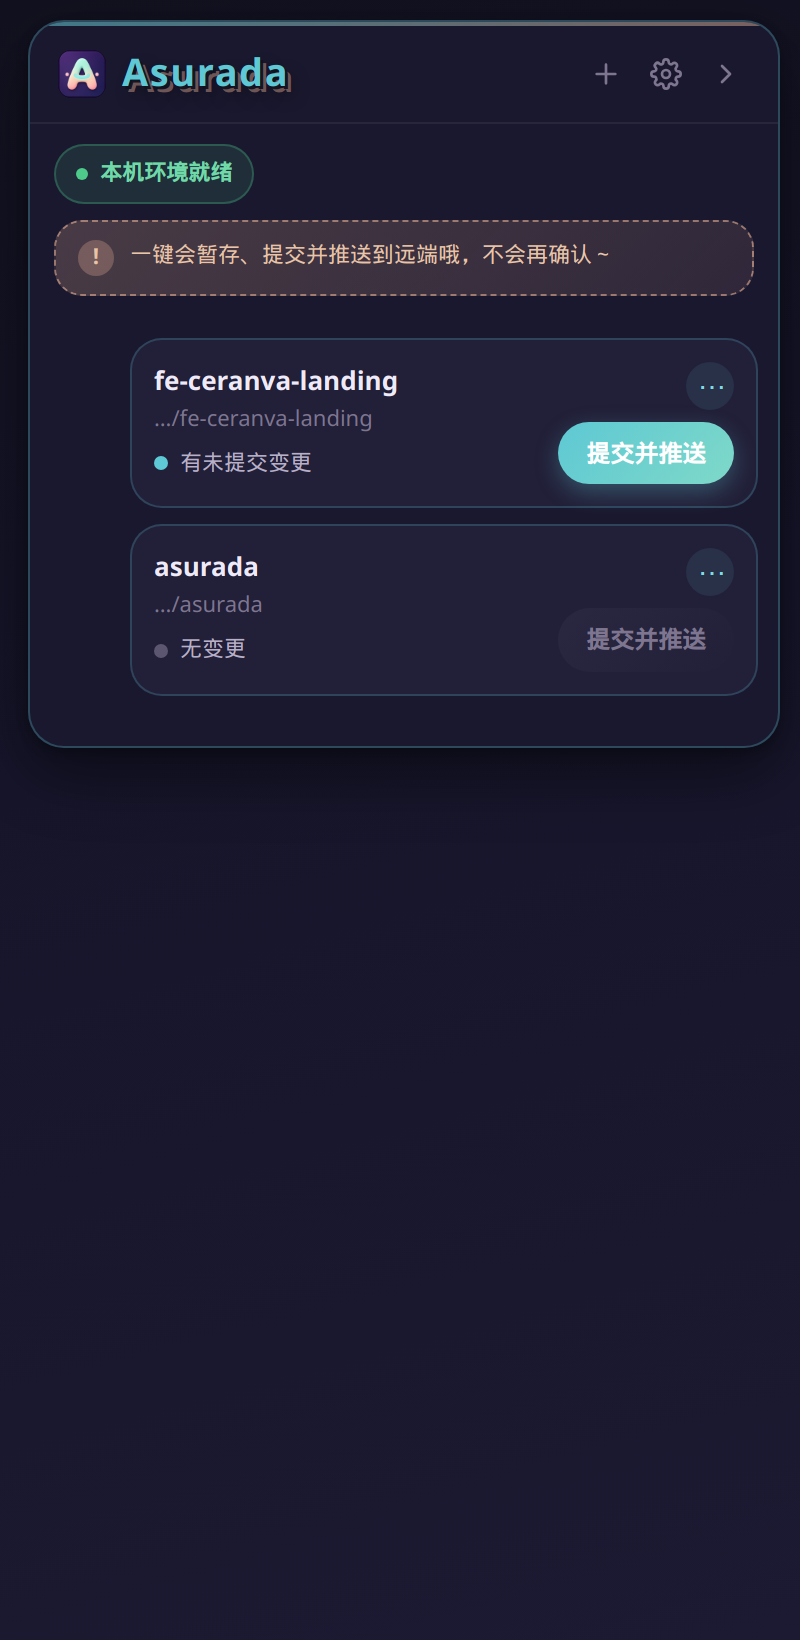
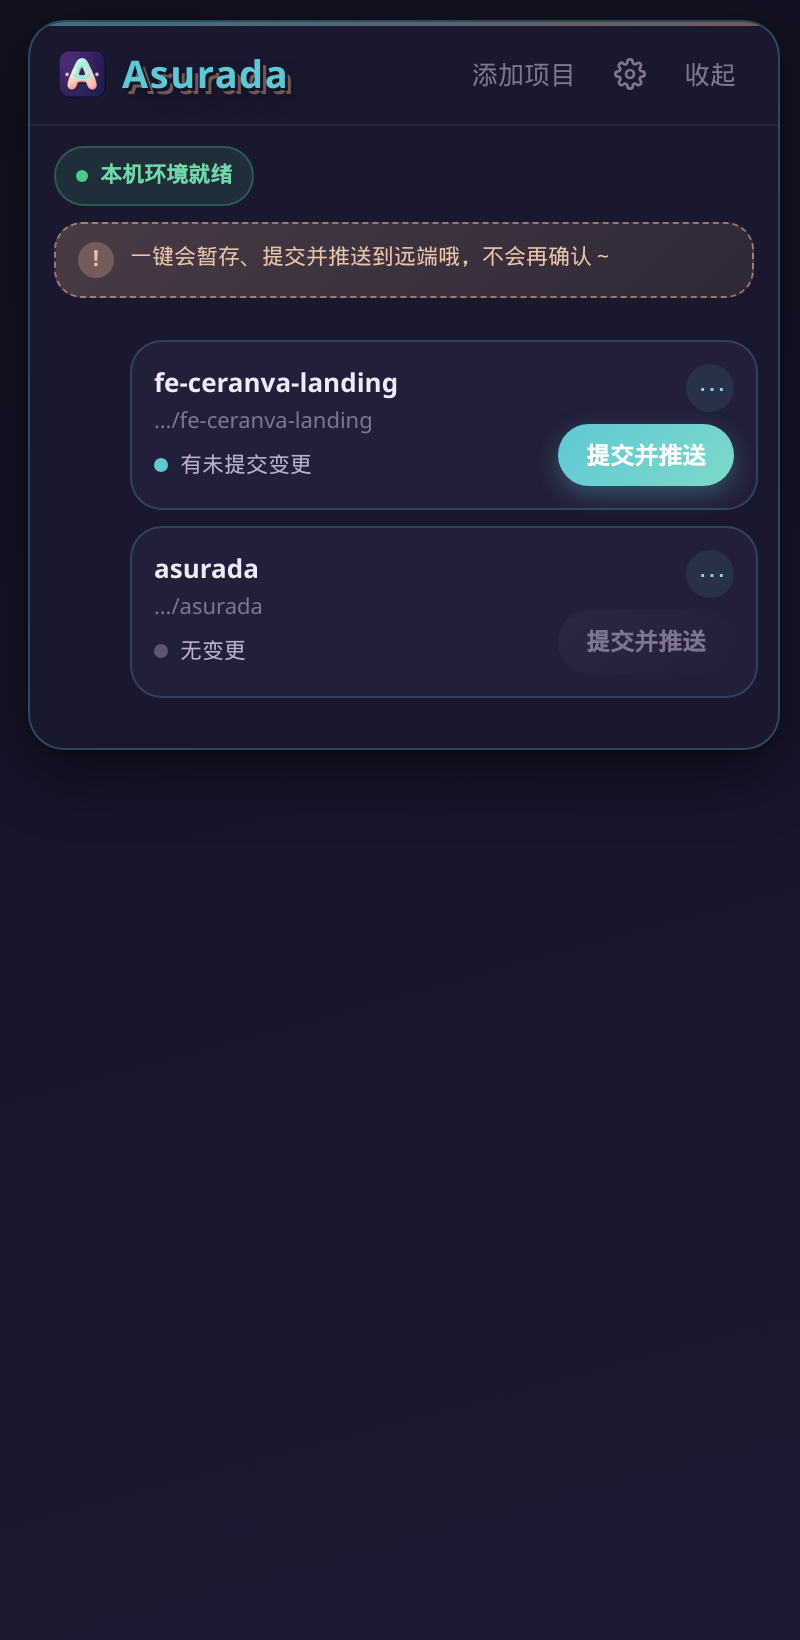
fix(设置): 紧凑主题行与顶栏文案，浅色面板接回定版
设置改左标签右分段；顶栏添加项目/收起用文案；浅色薄荷奶油半透明面板与顶条蜜桃→薄荷渐变。

diff --git a/src/App.css b/src/App.css
@@ -7,9 +7,9 @@
   --app-bg-a: transparent;
   --app-bg-b: transparent;
   --panel: rgba(255, 255, 255, 0.9);
-  --panel-solid: #fff;
+  --panel-solid: rgba(240, 252, 250, 0.88);
   --panel-border: rgba(94, 200, 212, 0.38);
-  --panel-outline: rgba(61, 58, 74, 0.08);
+  --panel-outline: rgba(94, 200, 212, 0.38);
   --panel-shadow: 0 12px 32px rgba(23, 18, 42, 0.18),
     0 2px 6px rgba(23, 18, 42, 0.08);
   --chrome-divider: rgba(61, 58, 74, 0.06);
@@ -237,11 +237,26 @@ body {
   background: var(--panel-solid);
   border: 1px solid var(--panel-outline);
   box-shadow: var(--panel-shadow);
+  backdrop-filter: blur(14px);
+  -webkit-backdrop-filter: blur(14px);
   display: flex;
   flex-direction: column;
   overflow: hidden;
   transform-origin: right center;
   animation: panel-in 0.42s cubic-bezier(0.34, 1.4, 0.64, 1);
+}
+
+:root .panel::before,
+[data-theme="light"] .panel::before {
+  content: "";
+  position: absolute;
+  inset: 0 0 auto;
+  height: 3px;
+  border-radius: 18px 18px 0 0;
+  background: linear-gradient(90deg, var(--peach), var(--mint));
+  opacity: 0.92;
+  pointer-events: none;
+  z-index: 1;
 }
 
 [data-theme="dark"] .panel::before {
@@ -358,7 +373,21 @@ body {
 .chrome-actions {
   display: flex;
   align-items: center;
-  gap: 2px;
+  gap: 4px;
+  flex-shrink: 0;
+}
+
+.btn-chrome {
+  color: var(--mint-hover-ink);
+  font-weight: 600;
+  font-size: 12px;
+  white-space: nowrap;
+}
+
+.btn-chrome-muted {
+  color: var(--ink-2);
+  font-weight: 600;
+  font-size: 12px;
 }
 
 .btn-ghost,
@@ -949,40 +978,42 @@ body {
 }
 
 .settings-page {
-  padding: 4px 4px 8px;
+  padding: 2px 2px 8px;
 }
 
-.settings-page-title {
-  margin: 0 0 12px;
-  font-size: 14px;
-  font-weight: 700;
-  color: var(--heading);
+.settings-row {
+  display: flex;
+  align-items: center;
+  justify-content: space-between;
+  gap: 10px;
+  padding: 8px 2px 12px;
 }
 
-.settings-card {
-  padding: 12px 12px 10px;
-  border-radius: 16px;
-  background: var(--surface-card);
-  border: 1.5px solid var(--border-soft);
-  margin-bottom: 14px;
-}
-
-.settings-card-head {
-  margin-bottom: 10px;
-}
-
-.settings-label {
-  display: block;
+.settings-row .settings-label {
+  flex: none;
   font-size: 12px;
   font-weight: 700;
   color: var(--heading);
+  cursor: default;
 }
 
-.settings-hint {
-  margin: 4px 0 0;
-  font-size: 11px;
-  line-height: 1.4;
-  color: var(--ink-3);
+.settings-row .theme-segment {
+  flex: 1;
+  max-width: 220px;
+}
+
+.settings-foot {
+  display: flex;
+  align-items: center;
+  gap: 12px;
+  padding: 0 2px;
+}
+
+.settings-foot .btn-text {
+  color: var(--mint-hover-ink);
+  font-weight: 600;
+  font-size: 12px;
+  padding: 4px 0;
 }
 
 .theme-segment {
@@ -1016,17 +1047,6 @@ body {
   background: var(--segment-on-bg);
   color: var(--heading);
   box-shadow: var(--segment-on-shadow);
-}
-
-.settings-page-actions {
-  display: flex;
-  flex-direction: column;
-  align-items: flex-start;
-  gap: 8px;
-}
-
-.settings-back {
-  min-width: 72px;
 }
 
 .settings-extra {

diff --git a/src/App.tsx b/src/App.tsx
@@ -433,12 +433,10 @@ function App() {
               {showHeaderAdd ? (
                 <button
                   type="button"
-                  className="btn-icon"
-                  aria-label="添加项目"
-                  title="添加项目"
+                  className="btn-text btn-chrome"
                   onClick={() => void handleAddProject()}
                 >
-                  <Icon d="M12 5v14M5 12h14" />
+                  添加项目
                 </button>
               ) : null}
               {showMainChrome ? (
@@ -454,12 +452,10 @@ function App() {
               ) : null}
               <button
                 type="button"
-                className="btn-icon"
-                aria-label="收起"
-                title="收起"
+                className="btn-text btn-chrome-muted"
                 onClick={onCollapsePanel}
               >
-                <Icon d="m9 18 6-6-6-6" />
+                收起
               </button>
             </div>
           </header>
@@ -569,14 +565,13 @@ function SettingsView({
 }) {
   return (
     <div className="settings-page">
-      <h2 className="settings-page-title">设置</h2>
-      <div className="settings-card">
-        <div className="settings-card-head">
-          <span className="settings-label">主题</span>
-          <p className="settings-hint">
-            跟随系统时按 macOS 浅色/深色自动切换
-          </p>
-        </div>
+      <div className="settings-row">
+        <span
+          className="settings-label"
+          title="跟随系统时按 macOS 浅色/深色自动切换"
+        >
+          主题
+        </span>
         <div className="theme-segment" role="radiogroup" aria-label="主题">
           {THEME_OPTIONS.map(([value, label]) => (
             <button
@@ -592,8 +587,8 @@ function SettingsView({
           ))}
         </div>
       </div>
-      <div className="settings-page-actions">
-        <button type="button" className="btn-secondary settings-back" onClick={onBack}>
+      <div className="settings-foot">
+        <button type="button" className="btn-text" onClick={onBack}>
           返回
         </button>
         <button type="button" className="settings-extra" onClick={onReplayIntro}>
